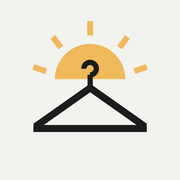
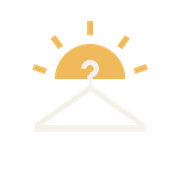
アイコンの背景を透明に
Claude-Session: https://claude.ai/code/session_011oW9GKKybfHgeMprEnUv1N

Changed region(s): [[0.1667, 0.3333, 0.8333, 0.75]]

diff --git a/tools/make_icons.py b/tools/make_icons.py
@@ -1,4 +1,4 @@
-"""アプリのアイコンを作る（朝日とハンガーの、シンプルな絵）。
+"""アプリのアイコンを作る（朝日とハンガーの、シンプルな絵。背景は透明）。
   python3 tools/make_icons.py
   → icons/icon-192.png / icons/icon-512.png / icons/apple-touch-icon.png"""
 import pathlib
@@ -6,15 +6,15 @@ from PIL import Image, ImageDraw
 
 root = pathlib.Path(__file__).resolve().parent.parent
 S = 1024
-img = Image.new('RGB', (S, S), '#f2f3ef')
+img = Image.new('RGBA', (S, S), (0, 0, 0, 0))  # 背景は完全に透明
 d = ImageDraw.Draw(img)
 # 朝日（半分だけ見える丸と、光の線）
 d.ellipse((312, 250, 712, 650), fill='#f0b95a')
-d.rectangle((0, 450, S, S), fill='#f2f3ef')
+d.rectangle((0, 450, S, S), fill=(0, 0, 0, 0))  # 朝日の下半分を消す
 for x0, y0, x1, y1 in [(512, 120, 512, 200), (300, 210, 345, 270), (724, 210, 679, 270), (190, 380, 260, 405), (834, 380, 764, 405)]:
     d.line((x0, y0, x1, y1), fill='#f0b95a', width=34)
 # ハンガー
-ink = '#1a1d1b'
+ink = '#f4f1ea'  # 透明の下地は黒で表示されることが多いので、明るい色にする
 d.arc((462, 340, 562, 440), 180, 450, fill=ink, width=30)
 d.line((512, 425, 512, 500), fill=ink, width=30)
 d.line((512, 500, 200, 720), fill=ink, width=40)
